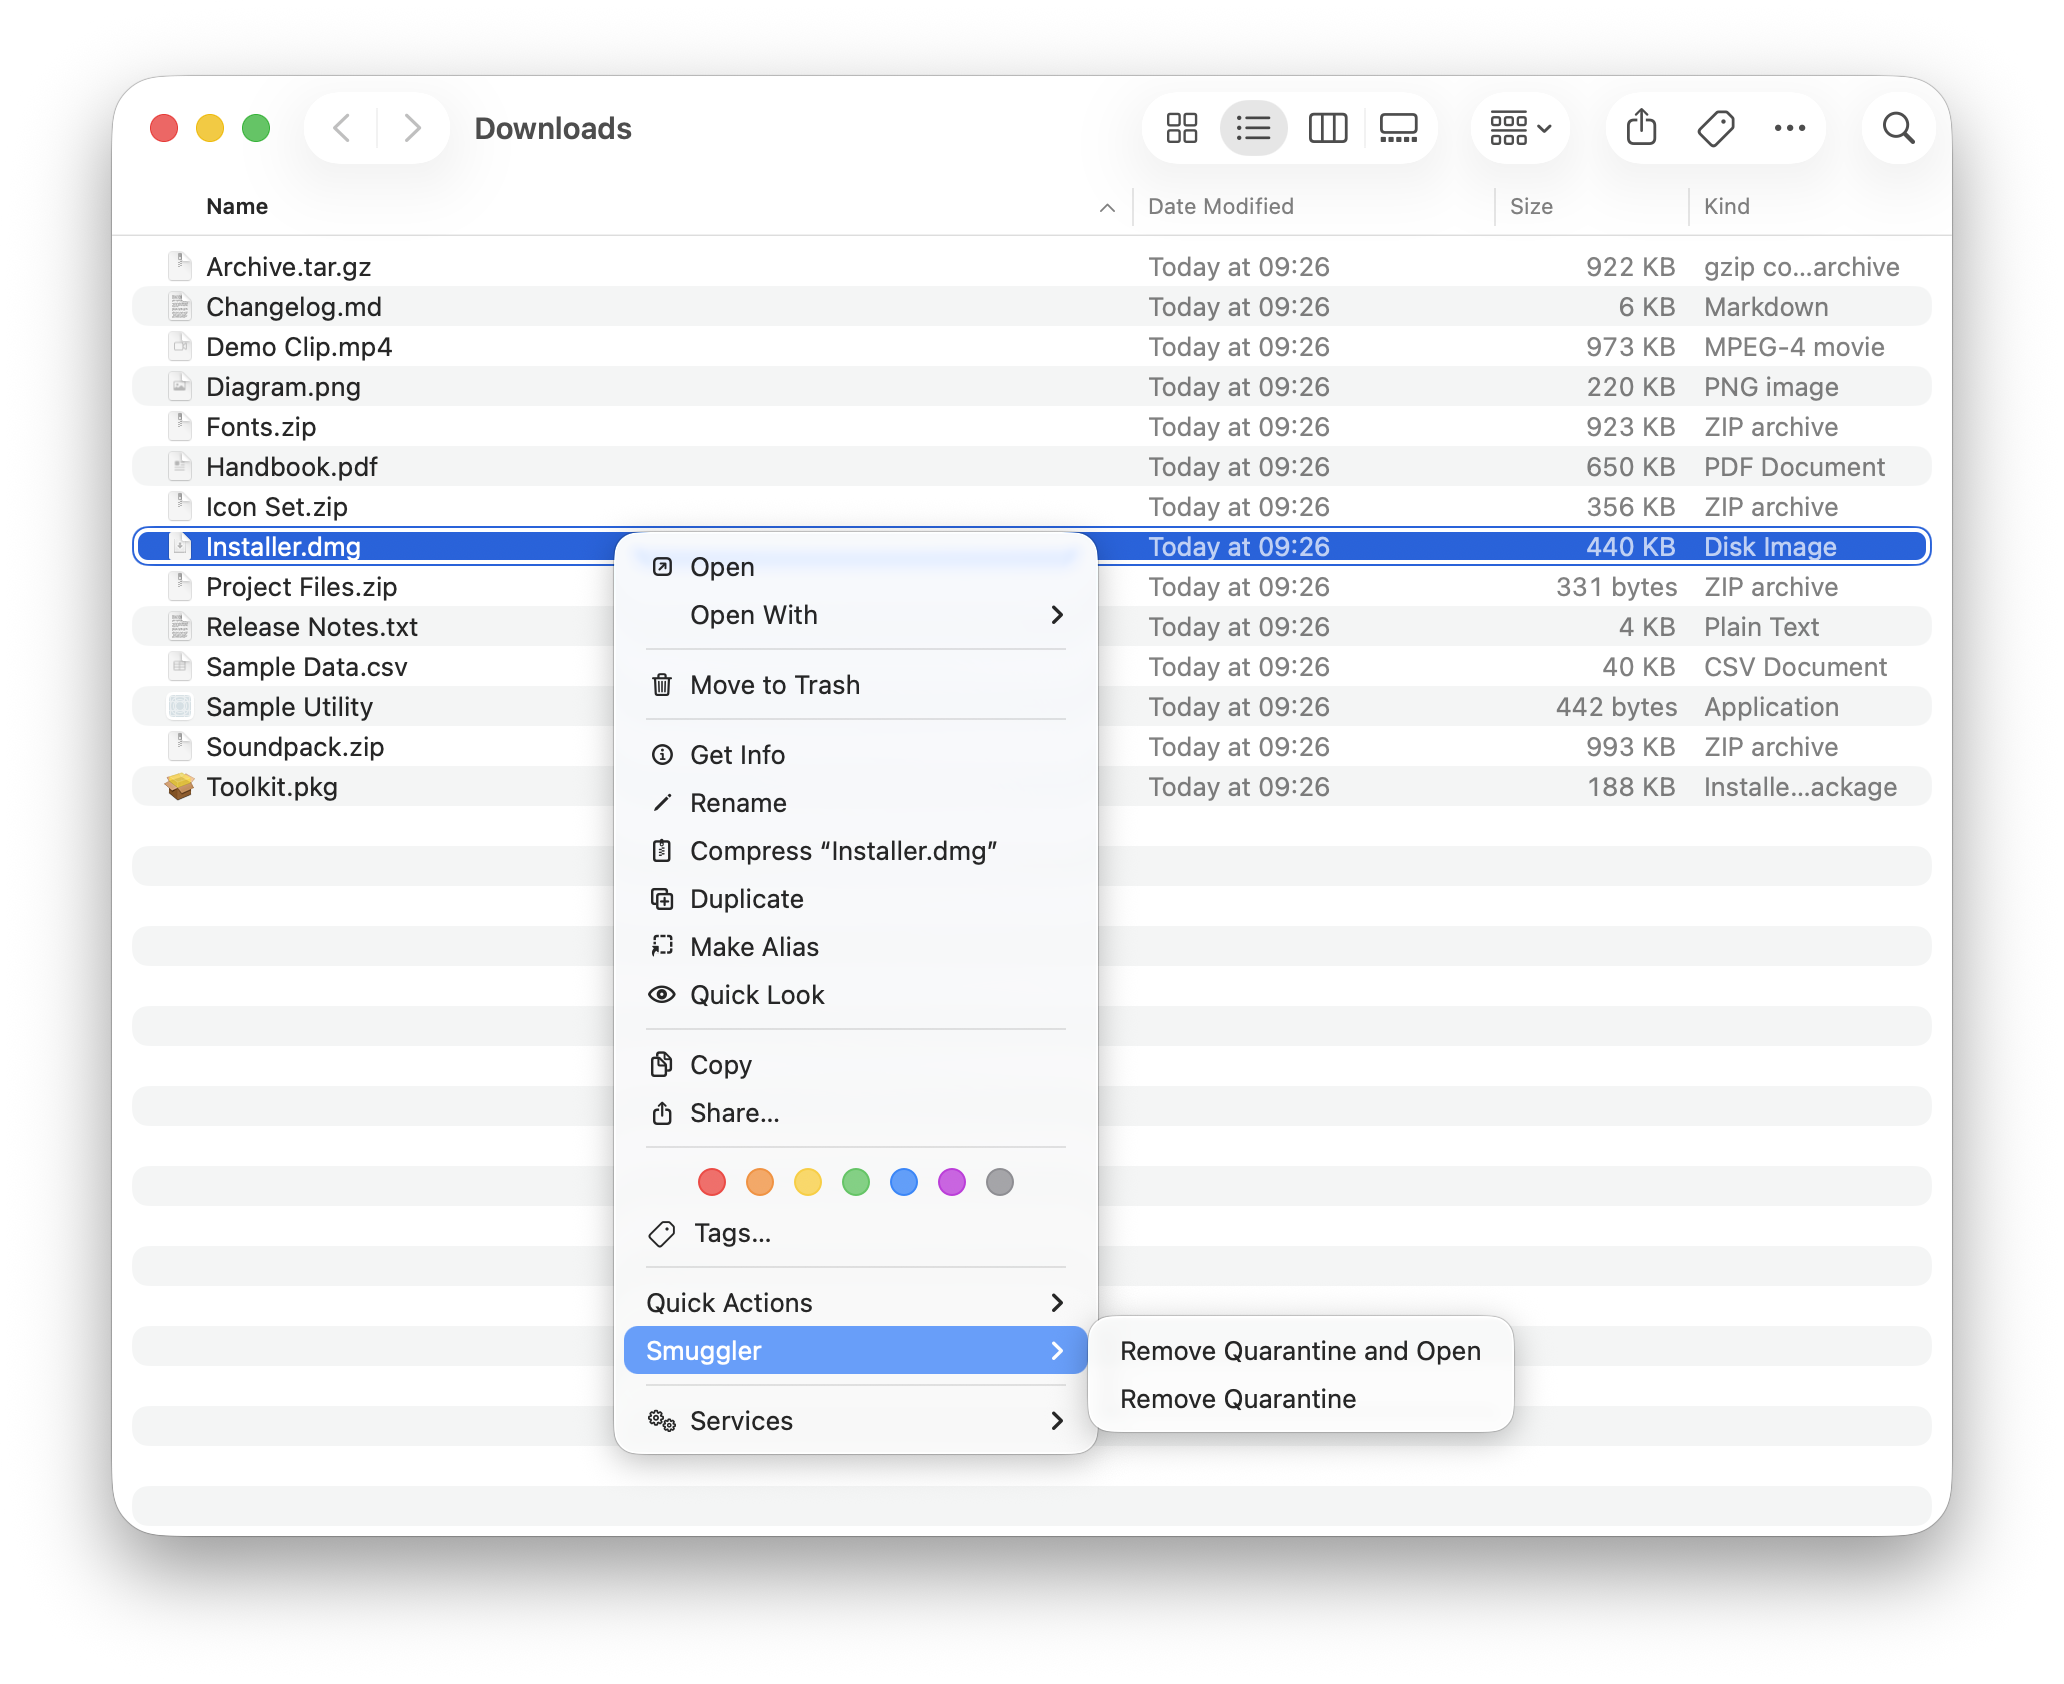
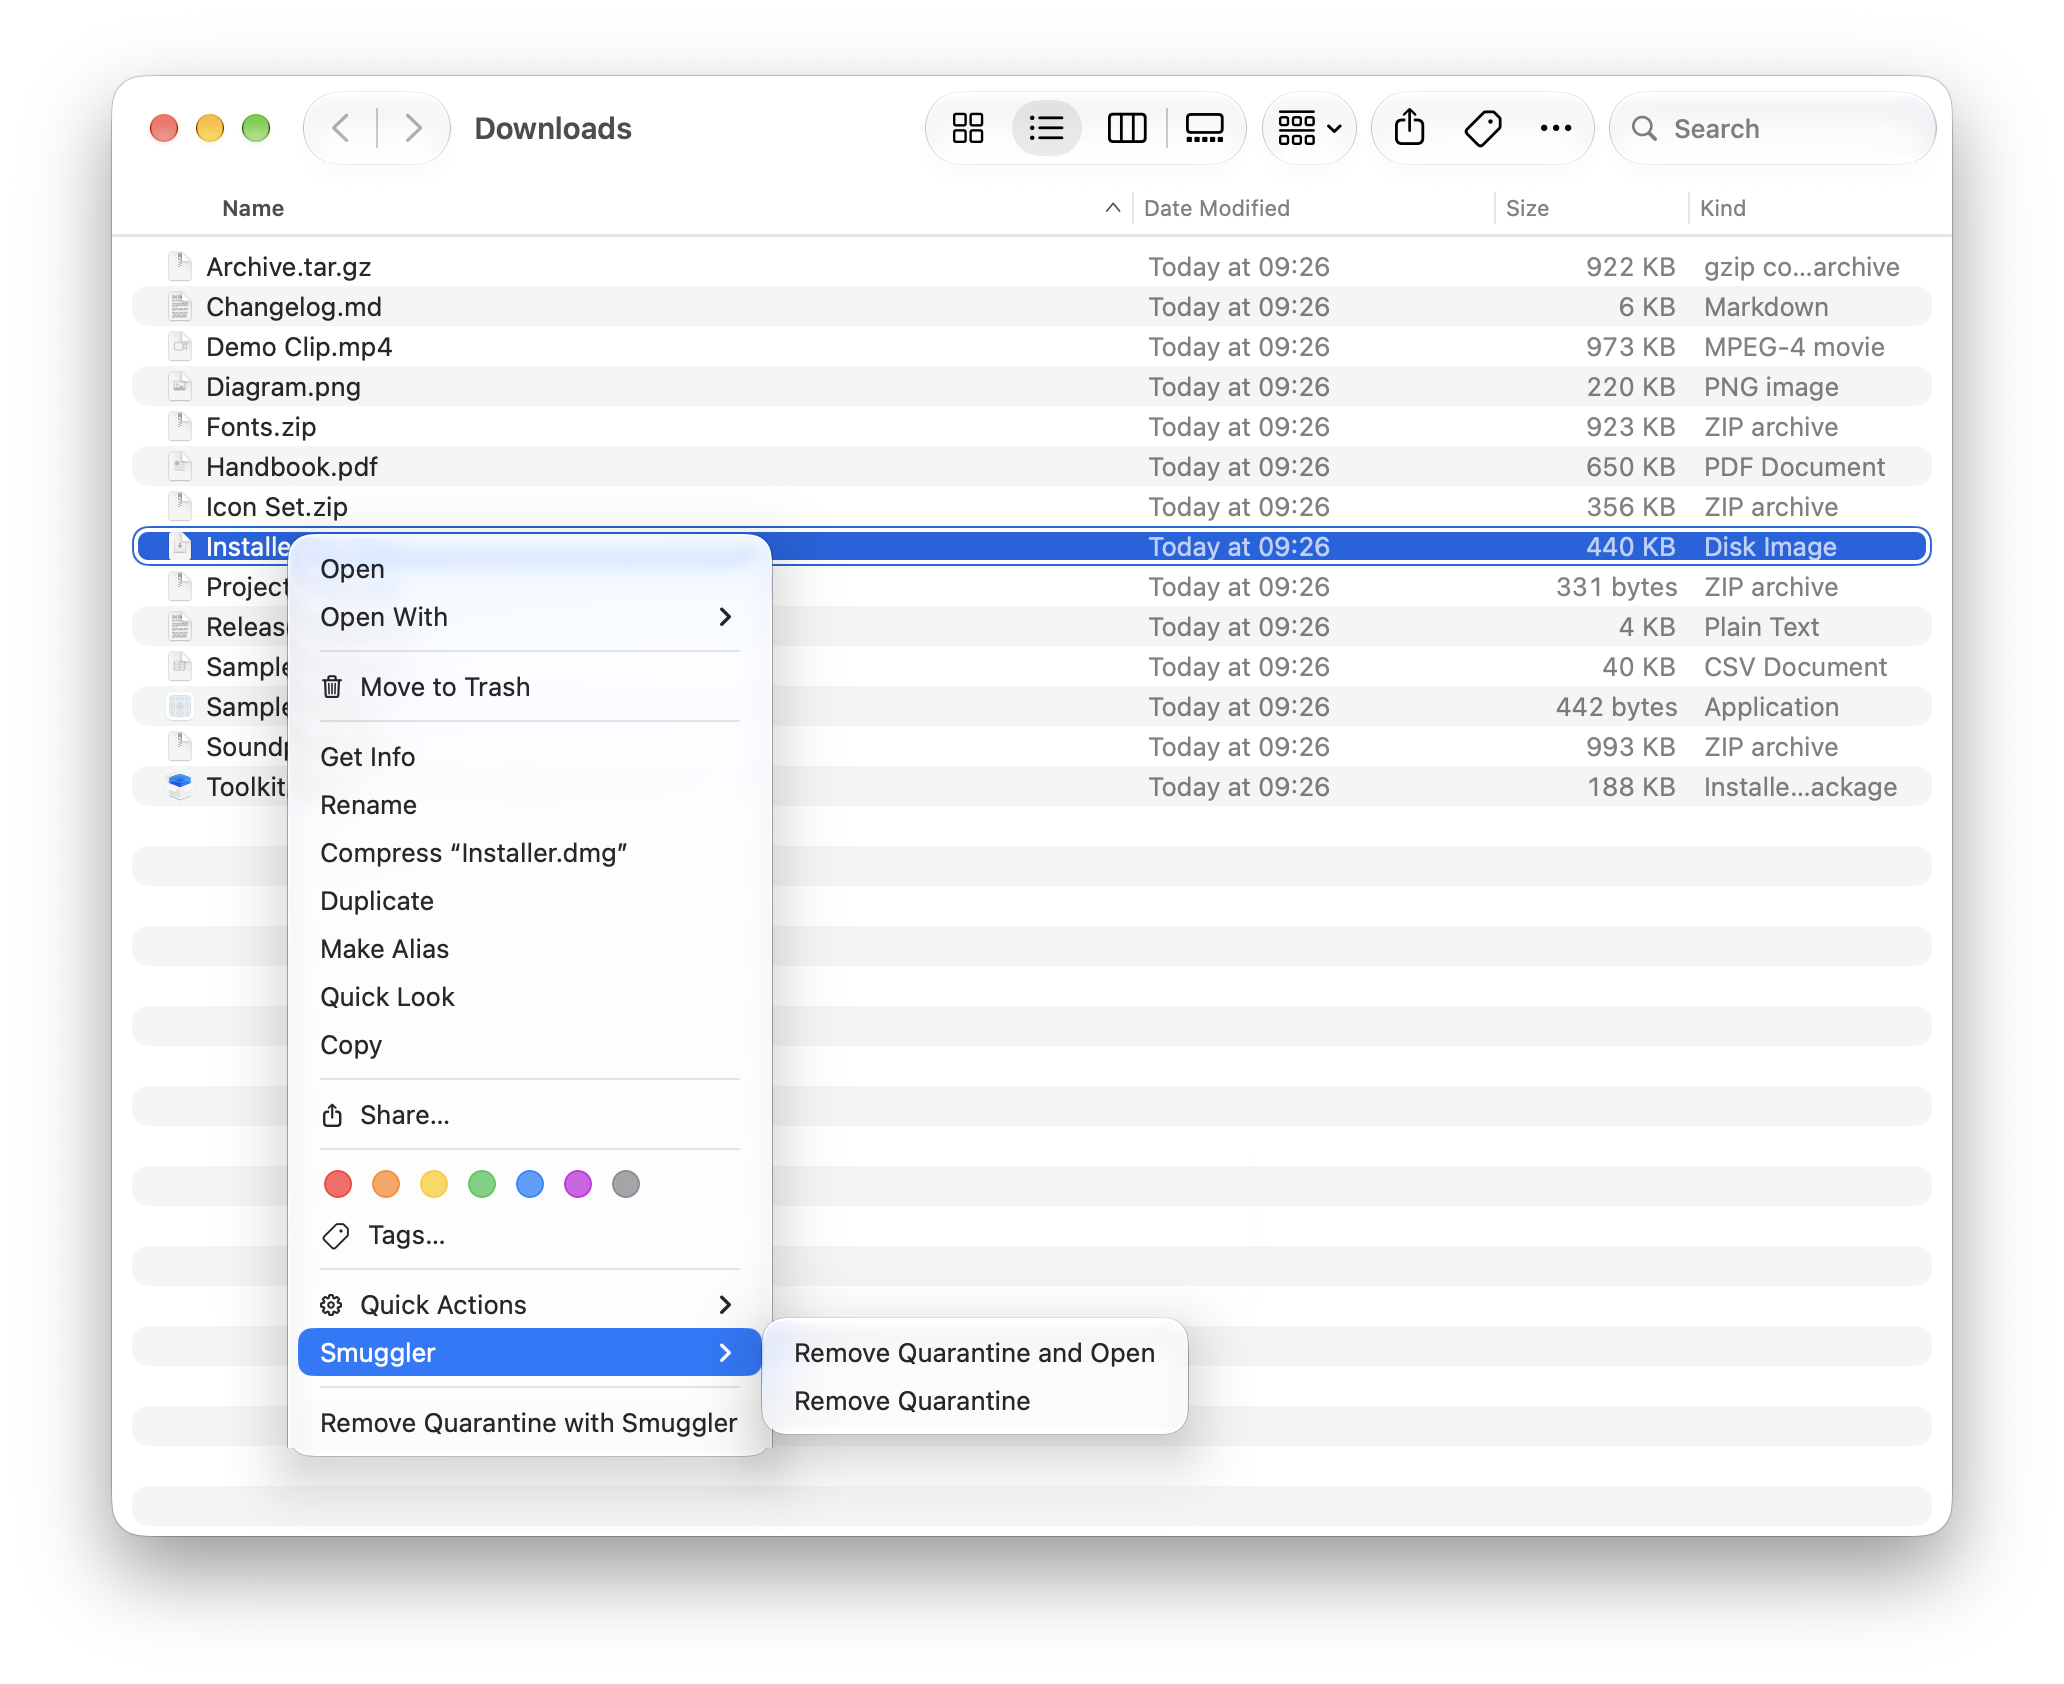
Update Readme

diff --git a/README.md b/README.md
@@ -44,7 +44,7 @@ Smuggler does the same thing by drag and drop. It removes that one attribute, wr
 <a href="Docs/screenshots/drop-zone.png"><img src="Docs/screenshots/drop-zone.png" width="100%" alt="The Smuggler window with an empty drop zone framed by grey hazard stripes. It reads Drop files to remove quarantine, below that Drag files or folders here, or choose them manually, and a yellow Choose Files button."></a>
 </td>
 <td width="50%" valign="top">
-<a href="Docs/screenshots/finder.png"><img src="Docs/screenshots/finder.png" width="100%" alt="A Finder window showing the Downloads folder with Installer.dmg selected. Its right-click menu is open on a Smuggler submenu with two entries: Remove Quarantine and Open, and Remove Quarantine."></a>
+<a href="Docs/screenshots/finder.png"><img src="Docs/screenshots/finder.png" width="100%" alt="A Finder window showing the Downloads folder with Installer.dmg selected. Its right-click menu is open on a Smuggler submenu with two entries: Remove Quarantine and Open, and Remove Quarantine. Below the submenu, the same menu lists the Services entry Remove Quarantine with Smuggler."></a>
 </td>
 </tr>
 <tr>
